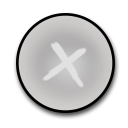
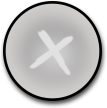
new buttons

diff --git a/GameDemo/src/com/angrynerds/ui/ControllerUI.java b/GameDemo/src/com/angrynerds/ui/ControllerUI.java
@@ -46,6 +46,8 @@ public class ControllerUI  {
 
     private void init() {
 
+        stage = new Stage(800,480,true,PlayScreen.getBatch());
+
         lifeBar = new Lifebar("lifebar2_03.png", "lifebar2b_03.png", "lifebar2c_03.png");
         lifeBar.setPosition(10, Constants.VIEWPORT_HEIGHT - lifeBar.getHeight());
         // start touchpad init
@@ -96,6 +98,7 @@ public class ControllerUI  {
 
         buttonTable.setBounds(0, 0, leftButton.getWidth()+midButton.getWidth()+rightButton.getWidth(), topButton.getHeight()+midButton.getHeight()+botButton.getHeight());
 
+        buttonTable.setPosition(stage.getWidth()-buttonTable.getWidth(), 0);
 //        buttonTable.add().width(leftButton.getWidth()).height(topButton.getHeight());
 //        buttonTable.add(topButton).width(topButton.getWidth()).height(topButton.getHeight()).bottom();
 //        buttonTable.add().width(rightButton.getWidth()).height(topButton.getHeight()).row();
@@ -106,11 +109,11 @@ public class ControllerUI  {
 //        buttonTable.add(botButton).width(botButton.getWidth()).height(botButton.getHeight()).top();
 //        buttonTable.add().width(rightButton.getWidth()).height(botButton.getHeight());
 
-        buttonTable.add(topButton).colspan(3).row();
-        buttonTable.add(leftButton);
-        buttonTable.add(midButton);
-        buttonTable.add(rightButton).row();
-        buttonTable.add(botButton).colspan(3);
+        buttonTable.add(topButton).colspan(3).expand().row();
+        buttonTable.add(leftButton).expand();
+        buttonTable.add(midButton).expand();
+        buttonTable.add(rightButton).expand().row();
+        buttonTable.add(botButton).colspan(3).expand();
 
         listener = new UIButtonListener(this);
         topButton.addListener(listener);
@@ -127,7 +130,7 @@ public class ControllerUI  {
         buttons[3] = botButton;
         buttons[4] = leftButton;
 
-        stage = new Stage(800,480,true,PlayScreen.getBatch());
+
 
         Gdx.input.setInputProcessor(stage);
 
